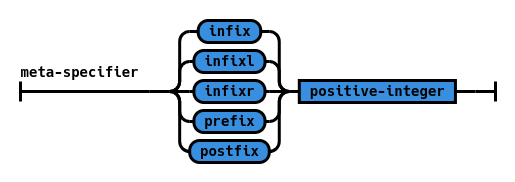
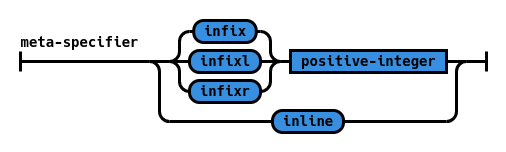
add the 'inline' meta-specifier

Changed region(s): [[0.0296, 0.0789, 0.9783, 0.9211], [0.0296, 0.2368, 0.2668, 0.3158]]

diff --git a/part1-zilch.tex b/part1-zilch.tex
@@ -351,7 +351,7 @@ Record literals allow constructing records in the same fashion as in e.g.\ C.
   \label{fig:zilch-grammar-expressions-atom-grammar}
 \end{figure}
 
-\section{Types}\label{sec:zilch-grammr-types}
+\section{Types}\label{sec:zilch-grammar-types}
 
 Types lie at the same level as expressions, but are put in a separate section for comprehensiveness sake.
 An expression \verb|e| is said to be of type \verb|t| if evaluating it yields (or at least is supposed to) any value in the set \verb|t|.
@@ -428,7 +428,7 @@ Because functions are first-class in Zilch, both function bindings defined below
 \noindent\begin{minted}{\zilchlexer}
   def const(x : u64, y : u64) : u64 := x
   -- is exactly the same as
-  def const : fn(u64, u64) u64 := fn(x, y) x
+  def const : (u64, u64) -> u64 := (x, y) -> x
 \end{minted}
 \vspace*{\baselineskip}
 
@@ -436,11 +436,11 @@ Function bindings may additionally be accompanied by \verb|where| blocks, which 
 This is mostly equivalent to putting those bindings at the beginning of a \verb|do| block:
 
 \noindent\begin{minted}{\zilchlexer}
-  def map+1(l : list u64) : list u64 := map(f, l)
+  def mapPlusOne(l : list u64) : list u64 := map(f, l)
     where def f(x) := x + 1
   -- is the same as
-  def map+1(l : list u64) : list u64 := do
-    f <- fn(x) x + 1
+  def mapPlusOne(l : list u64) : list u64 :=
+    let f(x) := x + 1 in
     map(f, l)
 \end{minted}
 
@@ -514,9 +514,9 @@ Such common interface can be used by referencing one of the functions defined by
 For a concrete example, see this example defining a type class for mappeable objects:
 
 \noindent\begin{minted}{\zilchlexer}
-  class Mappeable(f : fn(type) type) :=
+  class Mappeable(f : (type) -> type) :=
     -- Provides a way to map a value behind a container type through a pure function.
-    def{a, b} map(f : fn(a) b, x : f a) : f b
+    def{a, b} map(f : (a) -> b, x : f a) : f b
 \end{minted}
 \vspace*{\baselineskip}
 
@@ -524,8 +524,8 @@ Note that defining this type class is mainly equivalent to creating a record ske
 So the type class defined above is really not that much different from this:
 
 \noindent\begin{minted}{\zilchlexer}
-  record Mappeable(f : fn(type) type) :=
-    map : forall(a, b) fn(fn(a) b, f a) f b
+  record Mappeable(f : (type) -> type) :=
+    map : forall<a, b> ((a) -> b, f a) -> f b
 \end{minted}
 
 \begin{figure}[H]
@@ -568,7 +568,7 @@ Note that, as for type classes being equivalent to records, defining an implemen
 
 \noindent\begin{minted}{\zilchlexer}
   def map-list : Mappeable(List) :=
-    { map := fn(f, l) case l of
+    { map := (f, l) -> case l of
         Nil()      -> Nil()
         Cons(x, l) -> Cons(f x, map-list.map(f, l))
     }
@@ -597,12 +597,9 @@ Any declaration accepts zero or more meta-specifiers, but each specifier is rest
         These are used to disambiguate expressions, and come in 5 flavors:
         \begin{itemize}
           \item \verb|infix <prec>|, \verb|infixr <prec>| and \verb|infixl <prec>| allow specifying the associativity (left, right or none) and precedence of infix operators (operators of the form \verb|_..._|);
-          \item \verb|prefix <prec>| allow specifying the precedence of prefix operators (of the form \verb|..._|).
-                Because prefix operators are not ambiguous on their own (there is only one interpretation for \verb|- - 0|), the precedence is used when combined with other operators;
-          \item \verb|postfix <prec>| allow specifying the precedence of postfix operators (of the form \verb|_...|).
-                Same as for prefix operators, precedence of postfix operators is used only when other kind of operators are used;
         \end{itemize}
   \item Deriving clauses can only be added to \verb|enum| and \verb|record| types;
+  \item Inlining hints tell the compiler that a function may not have a huge cost, therefore can be inlined more easily;
 \end{itemize}
 
 \begin{figure}[H]

diff --git a/railroad-diagrams.py b/railroad-diagrams.py
@@ -1599,15 +1599,14 @@ def zilch_meta_specifier():
 		0,
 		Sequence(
 			Choice(
-				2,
+				1,
 				Terminal('infix'),
 				Terminal('infixl'),
-				Terminal('infixr'),
-				Terminal('prefix'),
-				Terminal('postfix')
+				Terminal('infixr')
 			),
 			NonTerminal('positive-integer')
-		)
+		),
+		Terminal('inline')
 	)
 
 	return mk_diagram2('meta-specifier', inner)
